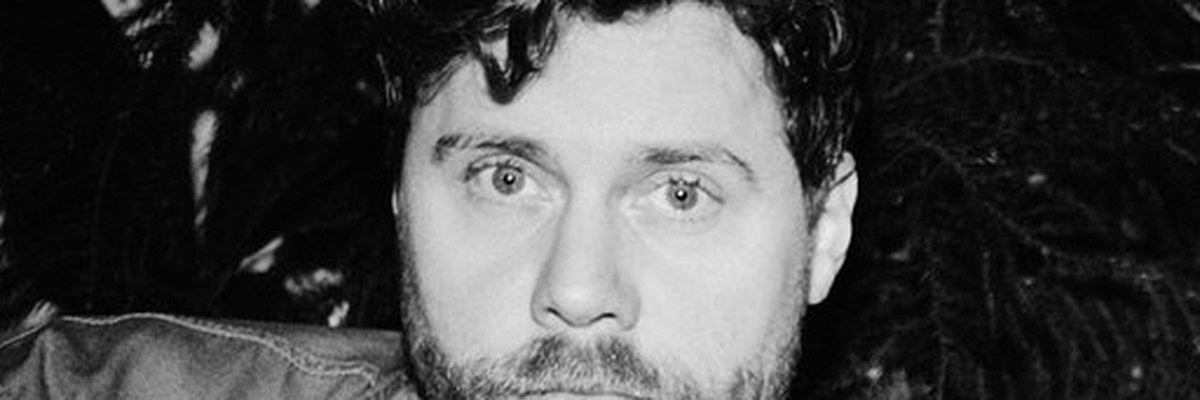
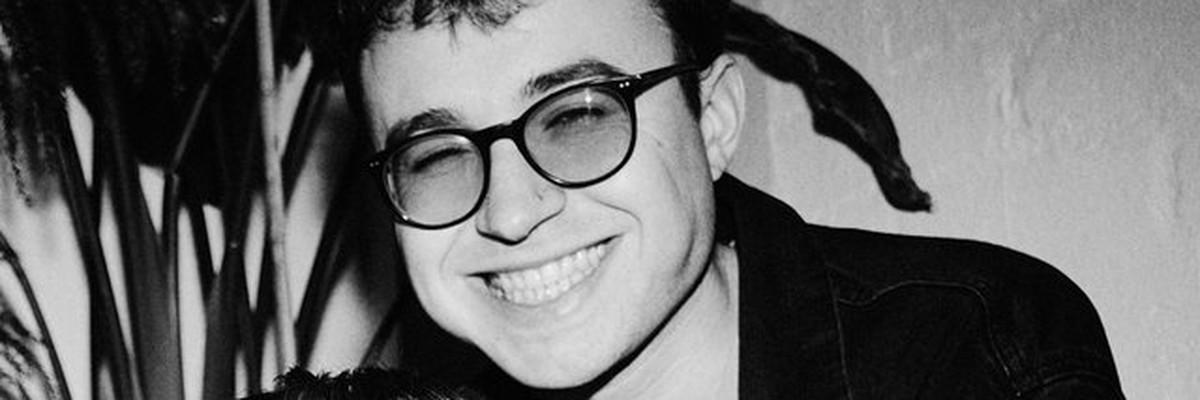
Bänder: Bandfarbe steckt in den aufgeklappten Bildern; Augen Lea weiter, Parzhuber Brille rechts oben, Simon und Quartett mit drei Augenpaaren
Claude-Session: https://claude.ai/code/session_017N8sbcAc2xkpeYShgx4Y84

diff --git a/tools/arbeiten_content.py b/tools/arbeiten_content.py
@@ -70,11 +70,11 @@ p('bundesliga','Bundesliga','Sport · DFL','Sport · DFL','2023 bis 2025','DFL',
 
 # Farbe des Bands (mit Farbpipette aus den Bildern der Arbeit genommen) und Bild(er) beim Aufklappen.
 # Reihenfolge so, dass nie zwei ähnliche Farben nebeneinander stehen.
-BAND=[('rock-fairyland','#6a1a44',[7]),('trish-reflections-of-identity','#0a8389',[6]),('scholl-iconic','#d0592b',['scholl-6']),
- ('pnts','#2f5878',[15]),('phiala','#ceb57d',[6,8,9]),('the-wants','#562b38',[4]),('peek-cloppenburg-x-ellesse','#99b4bc',[6]),
- ('ozean-der-stille','#5a1f1b',[11]),('monano-schmuck','#9eccd4',[5]),('niewiederleise','#6f6f41',[4,5,8]),('copenhagen-studios','#f09a9e',[2,12,9]),
+BAND=[('rock-fairyland','#6a1a44',[2,6,8]),('trish-reflections-of-identity','#0a8389',[6]),('scholl-iconic','#d0592b',['scholl-3','scholl-4','scholl-1']),
+ ('pnts','#2f5878',[3,4,5]),('phiala','#ceb57d',[6,8,9]),('the-wants','#562b38',[4]),('peek-cloppenburg-x-ellesse','#99b4bc',[1]),
+ ('ozean-der-stille','#5a1f1b',[11]),('monano-schmuck','#9eccd4',[5]),('niewiederleise','#6f6f41',[4,5,8]),('copenhagen-studios','#f09a9e',[5,4]),
  ('silent-escape','#2e4f56',[1,2,5]),('bundesliga','#d9b42c',[23]),('appelrathcuepper','#0d3a78',[2]),('marie-dahmen','#9a5530',[5]),
- ('synergy','#2f6f58',[1,2,3]),('new-icons-club-magazine','#c8182e',['new-icons-club-magazine-2-3','new-icons-club-magazine-6','new-icons-club-magazine-2-7'])]
+ ('synergy','#2f6f58',[1,2,3]),('new-icons-club-magazine','#c8182e',['new-icons-club-magazine-5','new-icons-club-magazine-2-6','new-icons-club-magazine-2-9'])]
 for i,x in enumerate(P): x['seed']=[0,1,2,3,4,5,6,7,8,9,10,12,13,14,15,16,17][i]  # alte Position, damit die Bögen gleich bleiben
 byslug={x['slug']:x for x in P}
 assert len(BAND)==len(P), (len(BAND),len(P))
